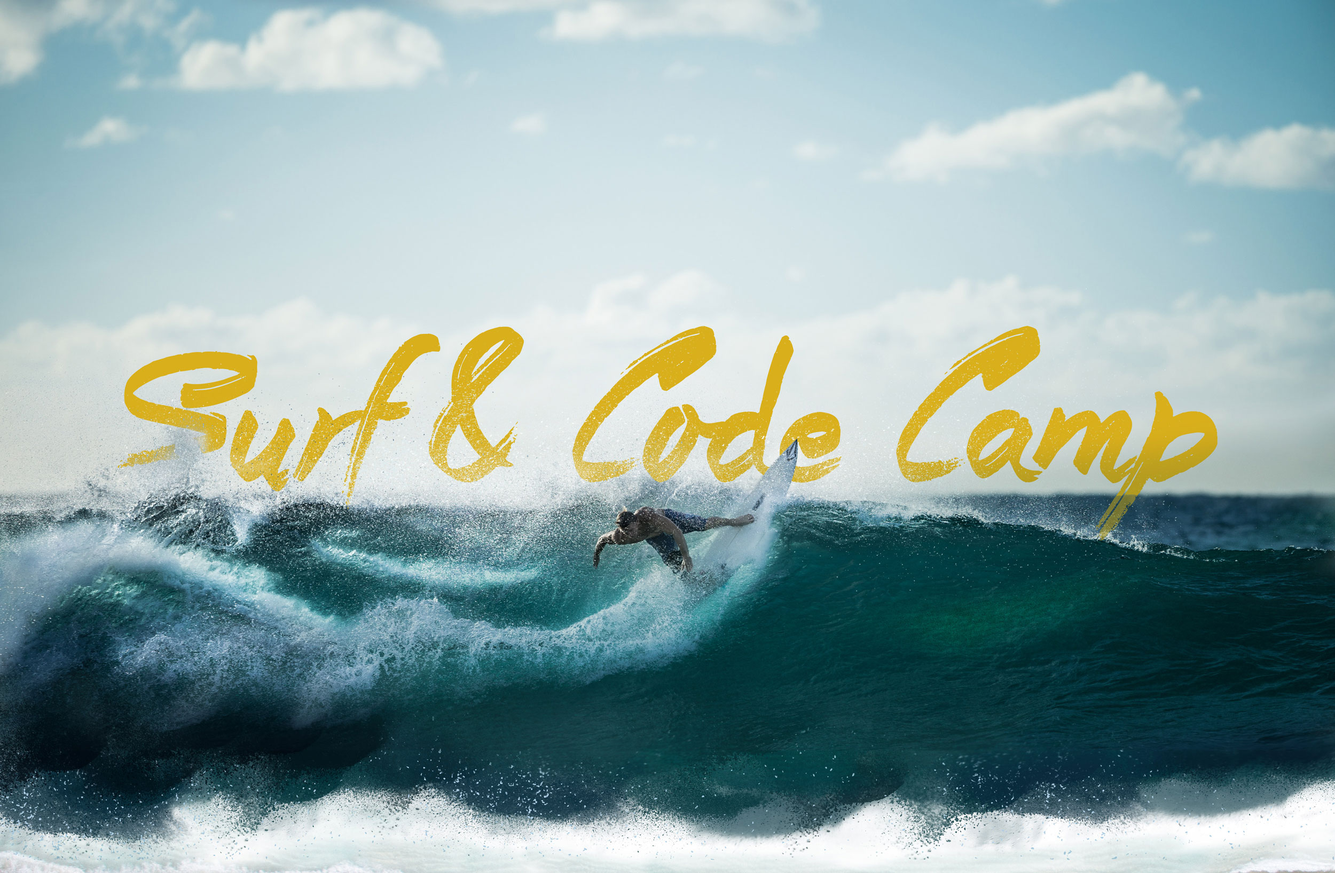
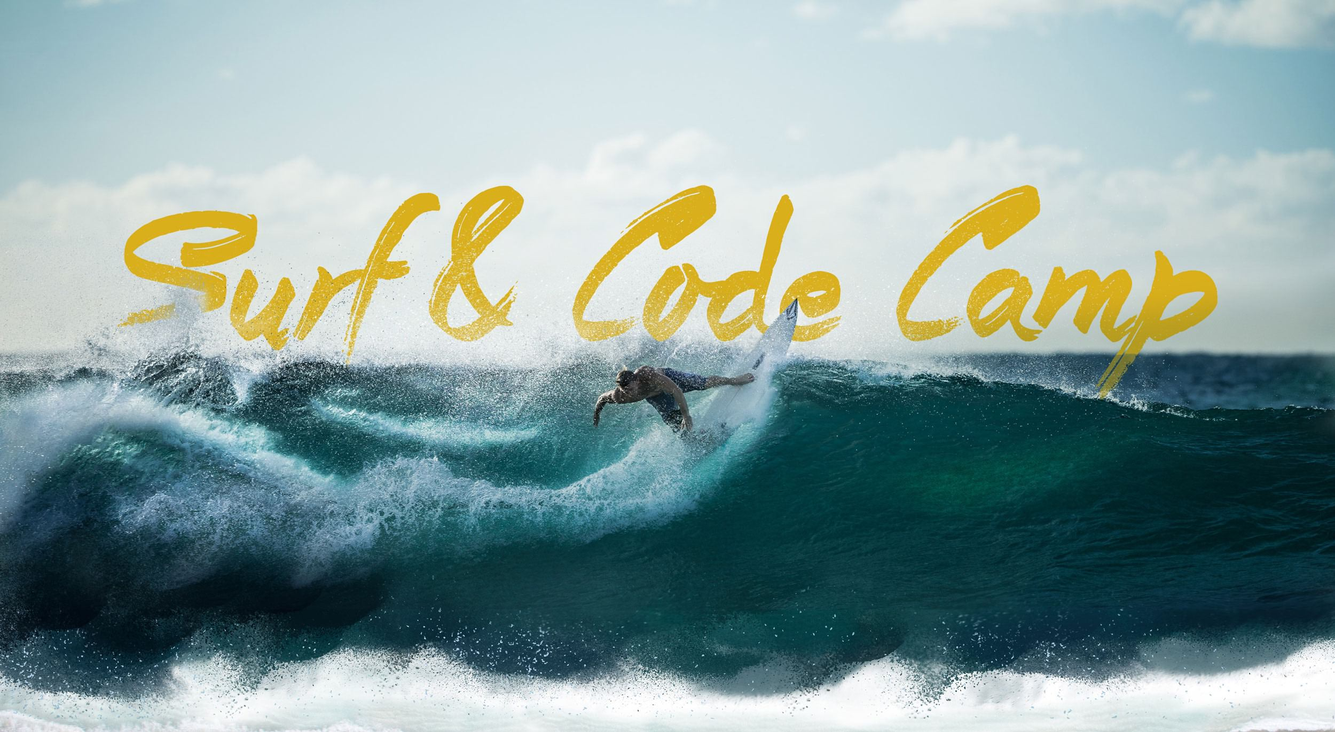
smaller header and some other tweaks

diff --git a/source/assets/css/style.css b/source/assets/css/style.css
@@ -292,13 +292,13 @@ input {
 	background-size: contain;
 	width: 100%;
 	height: 0;
-	padding-top: calc(0.6544 * 100vw);
+	padding-top: calc(0.5488 * 100vw);
 	text-align:center;
 	color: white;
 }
 
 .header-content {
-	margin-top: calc(((0.6544 * 100vw) * 0.4) * -1)
+	margin-top: calc(((0.5488 * 100vw) * 0.4) * -1)
 }
 
 
@@ -488,7 +488,7 @@ input {
 .section-bg-grey h3, .section-bg-grey h1,.section-bg-grey h5, .section-bg-grey p {
 	margin-left: 25px;
 	margin-right: 25px;
-	color: ##5a5a5a;
+	color: #5a5a5a;
 }
 
 /* PRICING TAG */
@@ -626,4 +626,11 @@ img.hi-claim {
 .small-header {
 	padding-top: 150px;
 	}
+}
+
+.what-you-get {
+	padding: 35px;
+	list-style-type:katakana;
+	font-size: 16px;
+	line-height: 36px;
 }
